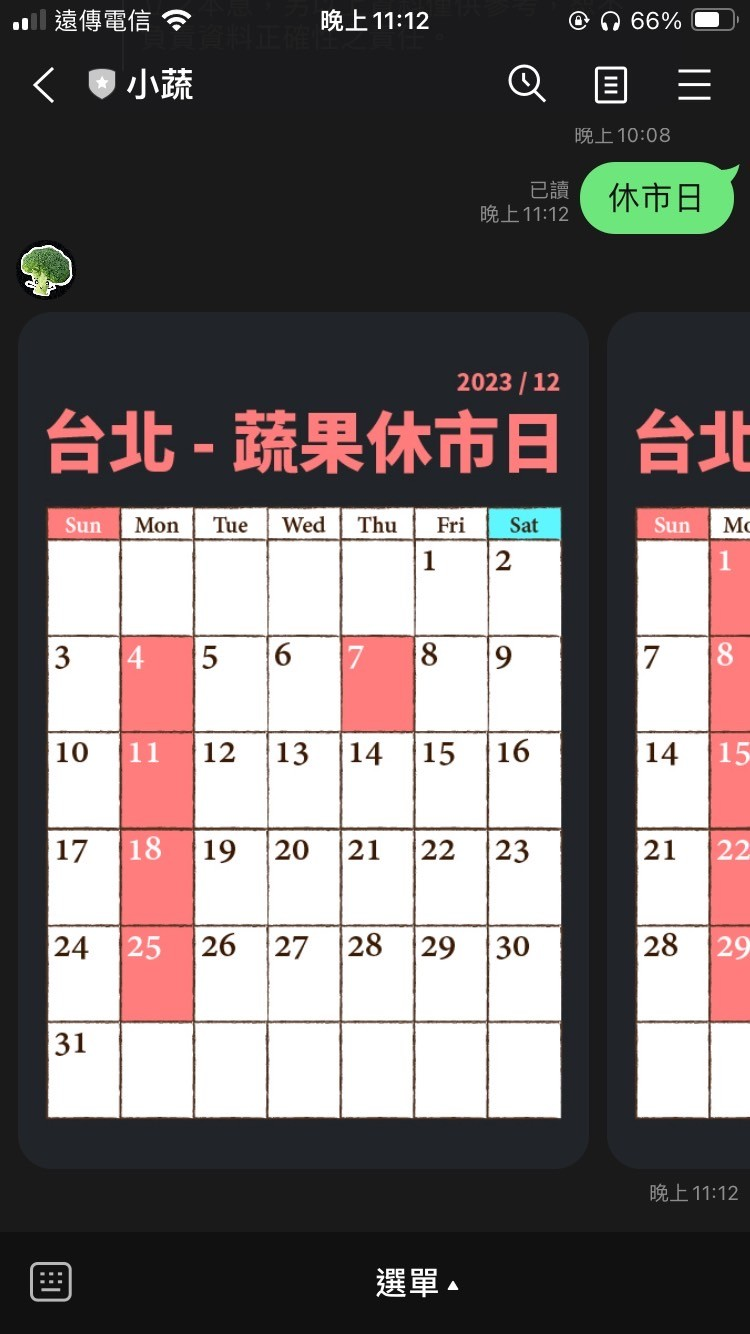
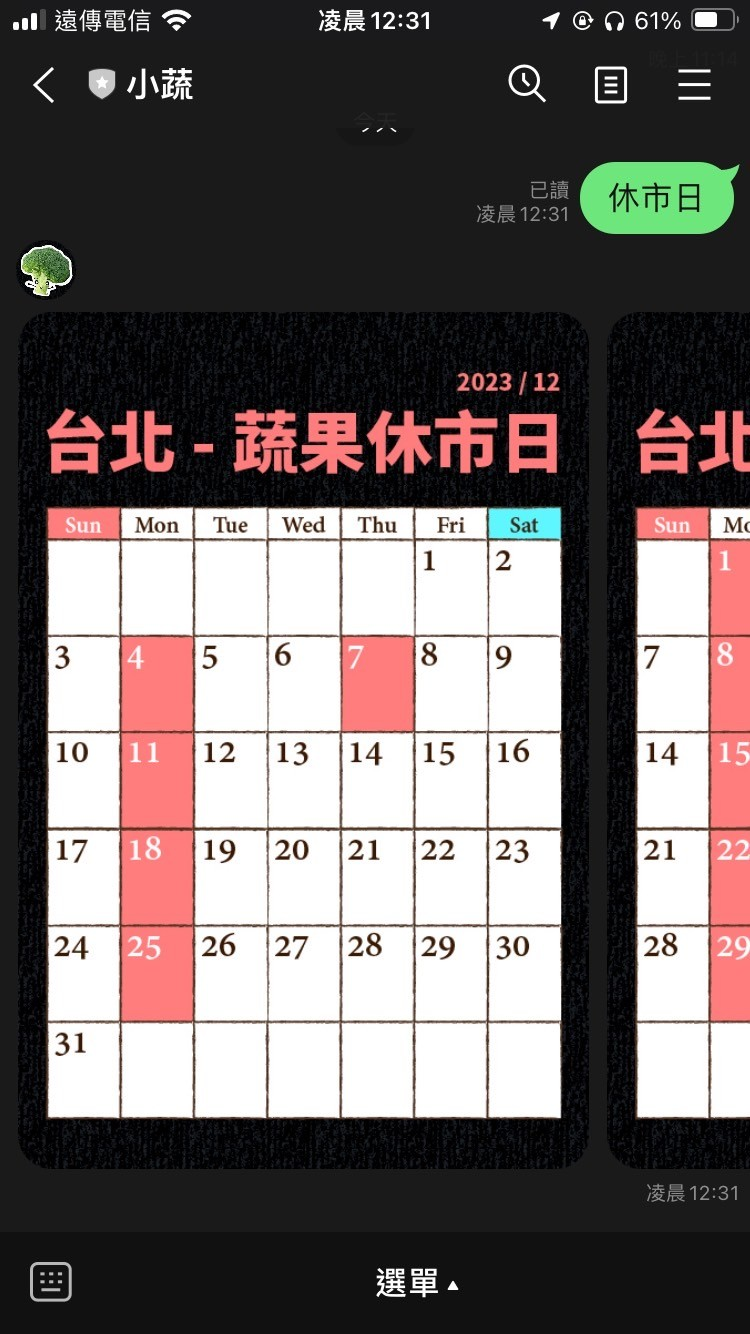
README 內容更新、img更新

diff --git a/templates/manual_templates.js b/templates/manual_templates.js
@@ -130,14 +130,26 @@ export default () => {
         {
           type: 'box',
           layout: 'vertical',
-          contents: [
-            {
-              type: 'text',
-              text: 'P.S 一次多詞 或 空白 , 會影響搜尋結果',
-              color: '#ff7d7d',
-              size: 'sm',
-              weight: 'bold'
-            }
+          contents: [{
+            type: 'text',
+            text: '小提醒',
+            color: '#ff7d7d',
+            size: 'md',
+            weight: 'bold'
+          },
+          {
+            type: 'text',
+            text: '* 「一次多詞」或「空白」 , 會影響搜尋結果',
+            color: '#ff7d7d',
+            size: 'sm'
+            // weight: 'bold'
+          }, {
+            type: 'text',
+            text: '* 「換日」或「休市日」可能會查無資料',
+            color: '#ff7d7d',
+            size: 'sm'
+            // weight: 'bold'
+          }
           ],
           paddingAll: '0px',
           paddingTop: '10px'

diff --git a/reply/market.js b/reply/market.js
@@ -9,7 +9,7 @@ export default async (e) => {
     // 網址要用百分比編碼
     // (原本搜尋後面是寫中文 EX：https://www.google.com/maps/search/家樂福/)
     // https://developers.line.biz/en/reference/messaging-api/#other-common-specifications
-    template.quickReply.items[0].imageUrl = 'https://raw.githubusercontent.com/Leileisme/Linebot/main/images/Logo/Logo_2.jpg'
+    template.quickReply.items[0].imageUrl = 'https://raw.githubusercontent.com/Leileisme/Linebot/main/images/Logo/Logo2.png'
     template.quickReply.items[0].action.uri = 'https://www.google.com/maps/search/%E5%B8%82%E5%A0%B4'
     template.quickReply.items[0].action.label = '傳統市場'
     template.quickReply.items[1].imageUrl = 'https://raw.githubusercontent.com/Leileisme/Linebot/main/images/Logo/quickReply_logo_01.jpg'

diff --git a/README.md b/README.md
@@ -1,23 +1,37 @@
-# 小蔬-編號89467 (linebot)
-## 你的蔬菜查價型機器人
+# 小蔬-編號89467
+#### Linebot 蔬菜查價機器人
 
-### ID：@919kcvbu
+## ID：@919kcvbu
 ![機器人ID QRcode](https://raw.githubusercontent.com/Leileisme/Linebot/main/images/readme/addFriend_919kcvbu.png)
+
 -----------------------------------
-# 介紹
+# 目錄
+
+- [介紹](#介紹)
+- [選單介面](#選單介面)
+- [使用說明](#使用說明)
+- [蔬果-每日預估價-畫面](#「蔬果-每日預估價」 畫面)
+- [休市日-畫面](#「休市日」 畫面)
+- [哪裡買-畫面](#「哪裡買」畫面)
+- [公開資料來源](#公開資料來源)
+- [免責聲明](#免責聲明)
+
+---------------------------------
+## 介紹
 第一次去傳統市場完全不知道菜價...
 不確定眼前的蔬菜往年行情在哪...
 別擔心！我會協助你了解每日菜價
 
 點選下方「使用說明」或手動輸入
 馬上開始查詢蔬果價格🥦
+
 -----------------------------------
-### 選單介面
+## 選單介面
 
 ![選單介面](https://raw.githubusercontent.com/Leileisme/Linebot/main/images/readme/menu.jpg)
 
 -----------------------------------
-### 使用說明
+## 使用說明
 
 
 #### 【當季蔬果-每日預估價】
@@ -42,21 +56,51 @@ P.S. 「一次多詞」 或 「空白」 會影響搜尋結果
 ![使用說明](https://raw.githubusercontent.com/Leileisme/Linebot/main/images/readme/manual.jpg)
 
 -----------------------------------
-### 「蔬果-每日預估價」 畫面
+## 「蔬果-每日預估價」 畫面
 1. 若為「--」則查無資料
 2. 若行情預警「警戒」則與比近年比「價差過高或過低」
+3. 點選下方「我現在就想要按鈕」，跳轉至「哪裡買」
+<br>
+<br>
 
 ![休市日畫面01](https://raw.githubusercontent.com/Leileisme/Linebot/main/images/readme/date01.jpg)
 
 ![休市日畫面02](https://raw.githubusercontent.com/Leileisme/Linebot/main/images/readme/date02.jpg)
+
 -----------------------------------
-### 「休市日」 畫面
+## 「休市日」 畫面
+<br>
+<br>
 
 ![休市日畫面](https://raw.githubusercontent.com/Leileisme/Linebot/main/images/readme/cloedDay.jpg)
 
 -----------------------------------
-### 「哪裡買」畫面
+##  「哪裡買」畫面
 下方出現 quick reply，使用者可選擇想去的商場，點選後連接 google map 搜尋
+<br>
+<br>
 
 ![哪裡買01](https://raw.githubusercontent.com/Leileisme/Linebot/main/images/readme/market01.jpg)
 ![哪裡買02](https://github.com/Leileisme/Linebot/blob/main/images/readme/market02.jpg)
+
+-----------------------------------
+## 公開資料來源
+
+台北農業產運銷股份有限公司
+https://www.tapmc.com.tw/Pages/Index
+
+當季好蔬果
+https://www.twfood.cc/
+
+-----------------------------------
+## 免責聲明
+
+免責聲明
+希望能將「當季好蔬果」好的立意讓使用更便利，
+故介接該資料並融合北農之公開資料，
+讓消費者能方便推估市場零售價格，
+不代表蔬果保證取得價或品質優劣，
+又因商品可能因品質差異、運送距離、環境陳列...等眾多因素影嚮價格。
+勿以此預估價格為殺價依據，
+有違本機器人與「當季好蔬果」網設立之本意，
+另以上資料僅供參考，恕不負責資料正確性之責任。
